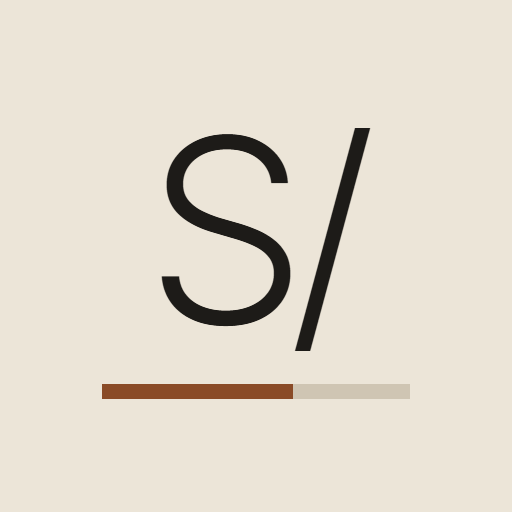
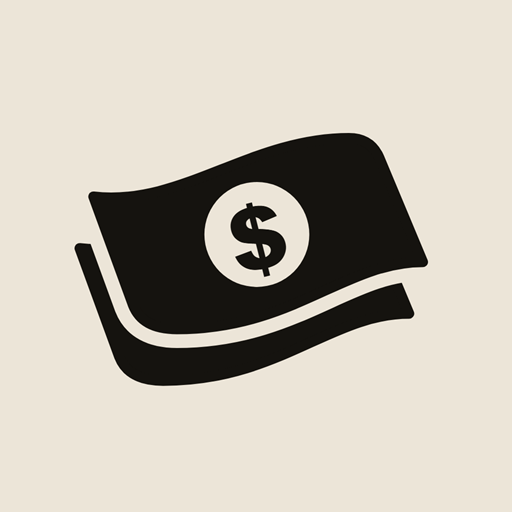
fix: icono nuevo (fajo de billetes) y el de 180 px ya no sale recortado

Changed region(s): [[0.125, 0.25, 0.8438, 0.7812]]

diff --git a/iconos/icono.html b/iconos/icono.html
@@ -1,13 +1,23 @@
 <!doctype html>
-<!-- Fuente del ícono. Se saca a PNG con una captura de Edge sin ventana (ver LEEME.md). -->
+<!-- Fuente del ícono: un fajo de billetes ondulado, dibujado en vectores.
+     Se saca a PNG con una captura de Edge sin ventana (ver LEEME.md). -->
 <meta charset="utf-8">
 <style>
-@font-face { font-family: "Inter Tight"; font-weight: 300 600; src: url("../fuentes/InterTight.woff2") format("woff2"); }
 html, body { margin: 0; height: 100%; overflow: hidden; background: #ECE5D8; }
-body { display: grid; place-items: center; font-family: "Inter Tight", Arial, sans-serif; color: #1D1B18; }
-.s { font-size: 50vw; font-weight: 300; letter-spacing: -.04em; line-height: 1; transform: translateY(-5vw); }
-.r { position: fixed; left: 20vw; right: 20vw; bottom: 22vw; height: 3vw; background: #CFC5B3; }
-.r i { display: block; width: 62%; height: 100%; background: #8A4B27; }
+svg { display: block; width: 100vw; height: 100vw; }
 </style>
-<div class="s">S/</div>
-<div class="r"><i></i></div>
+<svg viewBox="0 0 512 512" xmlns="http://www.w3.org/2000/svg">
+  <defs>
+    <path id="billete" d="M148,524 C250,536 330,456 445,456 Q470,456 480,478 L531,600 C440,600 380,678 245,678 Q205,678 194,650 Z"/>
+  </defs>
+  <rect width="512" height="512" fill="#ECE5D8"/>
+  <g transform="translate(256 262) scale(.86) translate(-337 -600)" stroke-linejoin="round">
+    <!-- el billete de atrás, el aire entre los dos y el de adelante -->
+    <use href="#billete" x="-16" y="60" fill="#15130F" stroke="#15130F" stroke-width="12"/>
+    <use href="#billete" fill="#ECE5D8" stroke="#ECE5D8" stroke-width="44"/>
+    <use href="#billete" fill="#15130F" stroke="#15130F" stroke-width="12"/>
+    <circle cx="338" cy="568" r="61" fill="#ECE5D8"/>
+    <text x="338" y="568" transform="rotate(-14 338 568)" text-anchor="middle" dominant-baseline="central"
+      font-family="'Arial Black', 'Segoe UI Black', Arial, sans-serif" font-weight="900" font-size="100" fill="#15130F">$</text>
+  </g>
+</svg>

diff --git a/pruebas/uso.html b/pruebas/uso.html
@@ -112,7 +112,7 @@ if (location.hostname !== '127.0.0.1' && location.hostname !== 'localhost') thro
     await espera(500);
     const claves = await W().caches.keys();
     const n = claves.length ? (await (await W().caches.open(claves[0])).keys()).length : 0;
-    ok('service worker activo y con los 10 archivos guardados', reg && claves[0] === 'finanzas-1' && n === 10, { claves, n });
+    ok('service worker activo y con los 10 archivos guardados', reg && claves[0] === 'finanzas-2' && n === 10, { claves, n });
 
     ok('sin errores de JavaScript', !q('#aviso.fallo') || q('#aviso').hidden, q('#aviso').textContent);
   } catch (err) {

diff --git a/index.html b/index.html
@@ -12,8 +12,8 @@
 <meta name="apple-mobile-web-app-status-bar-style" content="default">
 <meta name="format-detection" content="telephone=no">
 <link rel="manifest" href="manifest.webmanifest">
-<link rel="apple-touch-icon" href="iconos/icono-180.png">
-<link rel="icon" type="image/png" href="iconos/icono-192.png">
+<link rel="apple-touch-icon" href="iconos/icono-180.png?v=2">
+<link rel="icon" type="image/png" href="iconos/icono-192.png?v=2">
 <link rel="stylesheet" href="estilo.css">
 </head>
 <body>

diff --git a/sw.js b/sw.js
@@ -1,7 +1,7 @@
 /* Deja la app funcionando sin internet. Sirve lo guardado al toque y, si hay
    conexión, baja la versión nueva por detrás: el cambio se ve al abrir de nuevo.
    Al publicar cambios conviene subir el número de CACHE. */
-const CACHE = 'finanzas-1';
+const CACHE = 'finanzas-2';
 const ARCHIVOS = ['./', 'index.html', 'estilo.css', 'logica.js', 'app.js', 'manifest.webmanifest',
   'fuentes/InterTight.woff2', 'iconos/icono-180.png', 'iconos/icono-192.png', 'iconos/icono-512.png'];
 

diff --git a/LEEME.md b/LEEME.md
@@ -52,8 +52,9 @@ Tiene que estar publicada con https (GitHub Pages sirve y es gratis).
   cambiar el tipo de cambio no mueve los meses pasados.
 - **Actualizar la app.** Al publicar cambios, subir el número de `CACHE` en
   `sw.js`. En el celular el cambio aparece la segunda vez que se abre.
-- **Ícono.** Sale de `iconos/icono.html` con una captura de Edge sin ventana
-  (`--headless=new --screenshot`) a 180, 192 y 512 px.
+- **Ícono.** Sale de `iconos/icono.html` con una captura de Edge sin ventana a 1024 px,
+  reducida después a 180, 192 y 512. Ojo: Edge sin ventana no baja de ~500 px de ancho;
+  capturar directo a 180 saca el ícono recortado.
 - Montos siempre en céntimos enteros. Los topes del presupuesto van en soles
   y son los mismos todos los meses.
 
